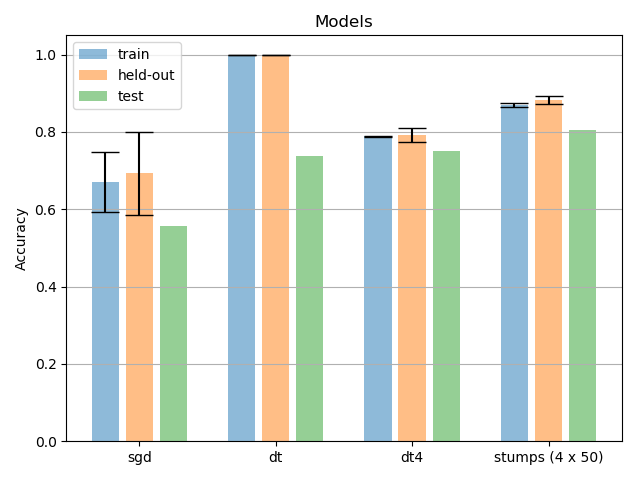
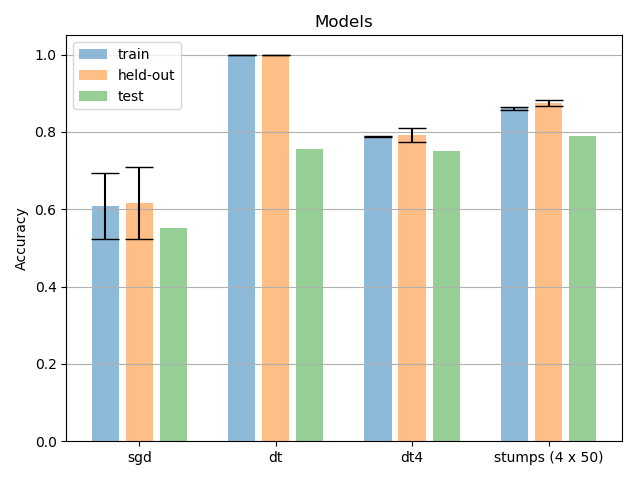
Cleaning up my language

diff --git a/cross_validation.py b/cross_validation.py
@@ -4,6 +4,8 @@ import matplotlib.pyplot as plt
 from sklearn.linear_model import SGDClassifier
 from sklearn.tree import DecisionTreeClassifier
 
+np.random.seed(329)
+
 def getAccuracy(first,second):
     same=np.equal(first,second)
     top=np.sum(same)
@@ -72,7 +74,6 @@ def plot_results(sgd_train_acc, sgd_train_std, sgd_heldout_acc, sgd_heldout_std,
     labels = ['sgd', 'dt', 'dt4', 'stumps (4 x 50)']
 
     train_accs = [sgd_train_acc, dt_train_acc, dt4_train_acc, stumps_train_acc]
-    print(train_accs)
     train_errors = [sgd_train_std, dt_train_std, dt4_train_std, stumps_train_std]
 
     cv_accs = [sgd_heldout_acc, dt_heldout_acc, dt4_heldout_acc, stumps_heldout_acc]
@@ -123,23 +124,19 @@ for holdout in range(5):
                 y_train = np.concatenate((y_train,y_part))
             else:
                 y_train = y_part
-    ugh=train_and_evaluate_sgd(x_train, y_train, x_test, y_test)
-    model1_train[holdout]=ugh[0]
-    model1_heldout[holdout]=ugh[1]
-    yuck=train_and_evaluate_decision_tree(x_train, y_train, x_test, y_test)
-    model2_train[holdout]=yuck[0]
-    model2_heldout[holdout]=yuck[1]
-    gross=train_and_evaluate_decision_stump(x_train, y_train, x_test, y_test)
-    model3_train[holdout]=gross[0]
-    model3_heldout[holdout]=gross[1]
-    gah=train_and_evaluate_sgd_with_stumps(x_train, y_train, x_test, y_test)
-    model4_train[holdout]=gah[0]
-    model4_heldout[holdout]=gah[1]
+    sgd=train_and_evaluate_sgd(x_train, y_train, x_test, y_test)
+    model1_train[holdout]=sgd[0]
+    model1_heldout[holdout]=sgd[1]
+    dt=train_and_evaluate_decision_tree(x_train, y_train, x_test, y_test)
+    model2_train[holdout]=dt[0]
+    model2_heldout[holdout]=dt[1]
+    ds=train_and_evaluate_decision_stump(x_train, y_train, x_test, y_test)
+    model3_train[holdout]=ds[0]
+    model3_heldout[holdout]=ds[1]
+    ssgd=train_and_evaluate_sgd_with_stumps(x_train, y_train, x_test, y_test)
+    model4_train[holdout]=ssgd[0]
+    model4_heldout[holdout]=ssgd[1]
 
-    print(ugh)
-    print(yuck)
-    print(gross)
-    print(gah)
 
 #Test
 X_train = np.load('madelon/train-X.npy')
@@ -147,32 +144,37 @@ y_train = np.load('madelon/train-y.npy')
 X_test = np.load('madelon/test-X.npy')
 y_test = np.load('madelon/test-y.npy')
 
-big_ugh=train_and_evaluate_sgd(X_train, y_train, X_test, y_test)
-big_yuck=train_and_evaluate_decision_tree(X_train, y_train, X_test, y_test)
-big_gross=train_and_evaluate_decision_stump(X_train, y_train, X_test, y_test)
-big_gah=train_and_evaluate_sgd_with_stumps(X_train, y_train, X_test, y_test)
-print(big_gah)
+big_sgd=train_and_evaluate_sgd(X_train, y_train, X_test, y_test)
+big_dt=train_and_evaluate_decision_tree(X_train, y_train, X_test, y_test)
+big_ds=train_and_evaluate_decision_stump(X_train, y_train, X_test, y_test)
+big_ssgd=train_and_evaluate_sgd_with_stumps(X_train, y_train, X_test, y_test)
+
+print(np.mean(model1_train),np.std(model1_train))
+print(np.mean(model2_train),np.std(model2_train))
+print(np.mean(model3_train),np.std(model3_train))
+print(np.mean(model4_train),np.std(model4_train))
+
 
 plot_results(np.mean(model1_train),
         np.std(model1_train),
         np.mean(model1_heldout),
         np.std(model1_heldout),
-        big_ugh[1],
+        big_sgd[1],
         np.mean(model2_train),
         np.std(model2_train),
         np.mean(model2_heldout),
         np.std(model2_heldout),
-        big_yuck[1],
+        big_dt[1],
         np.mean(model3_train),
         np.std(model3_train),
         np.mean(model3_heldout),
         np.std(model3_heldout),
-        big_gross[1],
+        big_ds[1],
         np.mean(model4_train),
         np.std(model4_train),
         np.mean(model4_heldout),
         np.std(model4_heldout),
-        big_gah[1])
+        big_ssgd[1])
 
 
 

diff --git a/feature_select.py b/feature_select.py
@@ -8,6 +8,8 @@ from cross_validation import train_and_evaluate_decision_tree
 from cross_validation import train_and_evaluate_decision_stump
 from cross_validation import train_and_evaluate_sgd_with_stumps
 
+np.random.seed(329)
+
 train_names=pd.read_csv("badges/train.names.txt",header=None)
 y_train=np.load("badges/train.labels.npy")
 test_names=pd.read_csv("badges/test.names.txt",header=None)
@@ -36,13 +38,15 @@ def compute_features(names):
 	return(features)
 
 X_train=compute_features(train_names)
+print(X_train)
 X_test=compute_features(test_names)
+print(X_test)
 
-big_ugh=train_and_evaluate_sgd(X_train, y_train, X_test, y_test)
-print(big_ugh)
-big_yuck=train_and_evaluate_decision_tree(X_train, y_train, X_test, y_test)
-print(big_yuck)
-big_gross=train_and_evaluate_decision_stump(X_train, y_train, X_test, y_test)
-print(big_gross)
-big_gah=train_and_evaluate_sgd_with_stumps(X_train, y_train, X_test, y_test)
-print(big_gah)
+big_sgd=train_and_evaluate_sgd(X_train, y_train, X_test, y_test)
+print(big_sgd)
+big_dt=train_and_evaluate_decision_tree(X_train, y_train, X_test, y_test)
+print(big_dt)
+big_ds=train_and_evaluate_decision_stump(X_train, y_train, X_test, y_test)
+print(big_ds)
+big_ssgd=train_and_evaluate_sgd_with_stumps(X_train, y_train, X_test, y_test)
+print(big_ssgd)
